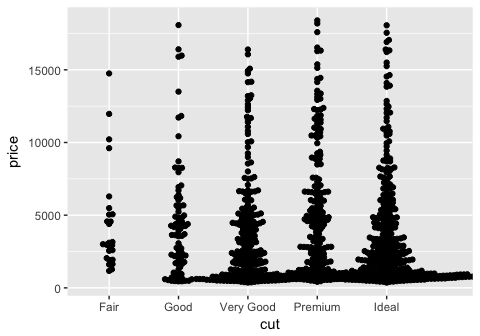
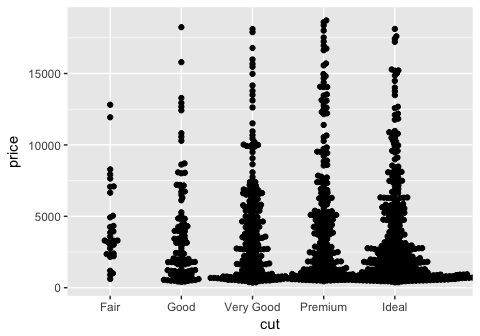
update formatting

diff --git a/r4ds_p4_chapters9-13_walkthrough.md b/r4ds_p4_chapters9-13_walkthrough.md
@@ -106,7 +106,7 @@ tb
 
     ## # A tibble: 1 x 3
     ##   `:)`  ` `   `2000`
-    ##   <chr> <chr> <chr> 
+    ##   <chr> <chr> <chr>
     ## 1 smile space number
 
 When compared to a data.frame in baseR, the tibble looks more user-friendly. Calling a tibble automatically provides only the beginning chunk of the data rather than filling up your entire console (think if it as default head(data.frame) display). Other nice features include not converting strings to factors or changing variable names.
@@ -243,16 +243,16 @@ diamonds[,var]
     ## # A tibble: 53,940 x 1
     ##    carat
     ##    <dbl>
-    ##  1 0.23 
-    ##  2 0.21 
-    ##  3 0.23 
+    ##  1 0.23
+    ##  2 0.21
+    ##  3 0.23
     ##  4 0.290
-    ##  5 0.31 
-    ##  6 0.24 
-    ##  7 0.24 
-    ##  8 0.26 
-    ##  9 0.22 
-    ## 10 0.23 
+    ##  5 0.31
+    ##  6 0.24
+    ##  7 0.24
+    ##  8 0.26
+    ##  9 0.22
+    ## 10 0.23
     ## # ... with 53,930 more rows
 
 ``` r
@@ -388,13 +388,13 @@ enframe(x)
     ## # A tibble: 100 x 2
     ##    name   value
     ##    <chr>  <dbl>
-    ##  1 5      1.64 
+    ##  1 5      1.64
     ##  2 6      0.424
-    ##  3 7     -1.06 
+    ##  3 7     -1.06
     ##  4 8      0.210
     ##  5 9     -0.888
-    ##  6 10    -1.43 
-    ##  7 11    -1.90 
+    ##  6 10    -1.43
+    ##  7 11    -1.90
     ##  8 12     0.747
     ##  9 13     0.604
     ## 10 14    -0.469
@@ -775,7 +775,7 @@ x
     ## attr(,"problems")
     ## # A tibble: 2 x 4
     ##     row   col expected               actual
-    ##   <int> <int> <chr>                  <chr> 
+    ##   <int> <int> <chr>                  <chr>
     ## 1     3    NA an integer             abc   
     ## 2     4    NA no trailing characters .45
 
@@ -785,7 +785,7 @@ problems(x)
 
     ## # A tibble: 2 x 4
     ##     row   col expected               actual
-    ##   <int> <int> <chr>                  <chr> 
+    ##   <int> <int> <chr>                  <chr>
     ## 1     3    NA an integer             abc   
     ## 2     4    NA no trailing characters .45
 
@@ -1284,16 +1284,16 @@ challenge2
     ## # A tibble: 2,000 x 2
     ##    x     y    
     ##    <chr> <chr>
-    ##  1 404   <NA> 
-    ##  2 4172  <NA> 
-    ##  3 3004  <NA> 
-    ##  4 787   <NA> 
-    ##  5 37    <NA> 
-    ##  6 2332  <NA> 
-    ##  7 2489  <NA> 
-    ##  8 1449  <NA> 
-    ##  9 3665  <NA> 
-    ## 10 3863  <NA> 
+    ##  1 404   <NA>
+    ##  2 4172  <NA>
+    ##  3 3004  <NA>
+    ##  4 787   <NA>
+    ##  5 37    <NA>
+    ##  6 2332  <NA>
+    ##  7 2489  <NA>
+    ##  8 1449  <NA>
+    ##  9 3665  <NA>
+    ## 10 3863  <NA>
     ## # ... with 1,990 more rows
 
 ``` r
@@ -1495,10 +1495,10 @@ table2 %>%
     ##   country      year  cases population  rate
     ##   <chr>       <int>  <int>      <int> <dbl>
     ## 1 Afghanistan  1999    745   19987071 0.373
-    ## 2 Afghanistan  2000   2666   20595360 1.29 
-    ## 3 Brazil       1999  37737  172006362 2.19 
-    ## 4 Brazil       2000  80488  174504898 4.61 
-    ## 5 China        1999 212258 1272915272 1.67 
+    ## 2 Afghanistan  2000   2666   20595360 1.29
+    ## 3 Brazil       1999  37737  172006362 2.19
+    ## 4 Brazil       2000  80488  174504898 4.61
+    ## 5 China        1999 212258 1272915272 1.67
     ## 6 China        2000 213766 1280428583 1.67
 
 ``` r
@@ -1780,8 +1780,8 @@ table3 %>%
     ## * <chr>       <int> <chr>  <chr>     
     ## 1 Afghanistan  1999 745    19987071  
     ## 2 Afghanistan  2000 2666   20595360  
-    ## 3 Brazil       1999 37737  172006362 
-    ## 4 Brazil       2000 80488  174504898 
+    ## 3 Brazil       1999 37737  172006362
+    ## 4 Brazil       2000 80488  174504898
     ## 5 China        1999 212258 1272915272
     ## 6 China        2000 213766 1280428583
 
@@ -1881,7 +1881,7 @@ tibble(x = c("a,b,c", "d,e", "f,g,i")) %>%
     ##   one   two   three
     ##   <chr> <chr> <chr>
     ## 1 a     b     c    
-    ## 2 d     e     <NA> 
+    ## 2 d     e     <NA>
     ## 3 f     g     i
 
 In the examples above, the tibbles created are 1 column, 3 rows, with strings as observations. Within each string, commas separate the letters. The separate(x, c("one", "two", "three")) will try to split each string using the comma into three columns. However, in the first tibble, there is a row with four values separated by commas (an extra value). This is where the `extra` argument comes into play.
@@ -1933,7 +1933,7 @@ tibble(x = c("a,b,c", "d,e", "f,g,i")) %>%
     ##   one   two   three
     ##   <chr> <chr> <chr>
     ## 1 a     b     c    
-    ## 2 d     e     <NA> 
+    ## 2 d     e     <NA>
     ## 3 f     g     i
 
 ``` r
@@ -1983,12 +1983,12 @@ table3 %>%
     ## 4, 5, 6].
 
     ## # A tibble: 6 x 3
-    ##   country      year cases 
-    ## * <chr>       <int> <chr> 
+    ##   country      year cases
+    ## * <chr>       <int> <chr>
     ## 1 Afghanistan  1999 745   
     ## 2 Afghanistan  2000 2666  
-    ## 3 Brazil       1999 37737 
-    ## 4 Brazil       2000 80488 
+    ## 3 Brazil       1999 37737
+    ## 4 Brazil       2000 80488
     ## 5 China        1999 212258
     ## 6 China        2000 213766
 
@@ -1999,12 +1999,12 @@ table3 %>%
 ```
 
     ## # A tibble: 6 x 3
-    ##   country      year cases 
-    ## * <chr>       <int> <chr> 
+    ##   country      year cases
+    ## * <chr>       <int> <chr>
     ## 1 Afghanistan  1999 745   
     ## 2 Afghanistan  2000 2666  
-    ## 3 Brazil       1999 37737 
-    ## 4 Brazil       2000 80488 
+    ## 3 Brazil       1999 37737
+    ## 4 Brazil       2000 80488
     ## 5 China        1999 212258
     ## 6 China        2000 213766
 
@@ -2154,7 +2154,7 @@ stocks %>%
 ```
 
     ## # A tibble: 4 x 3
-    ##     qtr `2015`  `2016` 
+    ##     qtr `2015`  `2016`
     ##   <dbl> <chr>   <chr>  
     ## 1     1 1.88    MISSING
     ## 2     2 0.59    0.92   
@@ -2171,7 +2171,7 @@ stocks %>%
     ## first element will be used
 
     ## # A tibble: 4 x 3
-    ##     qtr `2015`  `2016` 
+    ##     qtr `2015`  `2016`
     ##   <dbl> <chr>   <chr>  
     ## 1     1 1.88    NO_2016
     ## 2     2 0.59    0.92   
@@ -2633,7 +2633,7 @@ planes
 
     ## # A tibble: 3,322 x 9
     ##    tailnum  year type      manufacturer  model  engines seats speed engine
-    ##    <chr>   <int> <chr>     <chr>         <chr>    <int> <int> <int> <chr> 
+    ##    <chr>   <int> <chr>     <chr>         <chr>    <int> <int> <int> <chr>
     ##  1 N10156   2004 Fixed wi… EMBRAER       EMB-1…       2    55    NA Turbo…
     ##  2 N102UW   1998 Fixed wi… AIRBUS INDUS… A320-…       2   182    NA Turbo…
     ##  3 N103US   1999 Fixed wi… AIRBUS INDUS… A320-…       2   182    NA Turbo…
@@ -2654,16 +2654,16 @@ weather
     ## # A tibble: 26,130 x 15
     ##    origin  year month   day  hour  temp  dewp humid wind_dir wind_speed
     ##    <chr>  <dbl> <dbl> <int> <int> <dbl> <dbl> <dbl>    <dbl>      <dbl>
-    ##  1 EWR     2013     1     1     0  37.0  21.9  54.0      230      10.4 
-    ##  2 EWR     2013     1     1     1  37.0  21.9  54.0      230      13.8 
-    ##  3 EWR     2013     1     1     2  37.9  21.9  52.1      230      12.7 
-    ##  4 EWR     2013     1     1     3  37.9  23    54.5      230      13.8 
-    ##  5 EWR     2013     1     1     4  37.9  24.1  57.0      240      15.0 
-    ##  6 EWR     2013     1     1     6  39.0  26.1  59.4      270      10.4 
+    ##  1 EWR     2013     1     1     0  37.0  21.9  54.0      230      10.4
+    ##  2 EWR     2013     1     1     1  37.0  21.9  54.0      230      13.8
+    ##  3 EWR     2013     1     1     2  37.9  21.9  52.1      230      12.7
+    ##  4 EWR     2013     1     1     3  37.9  23    54.5      230      13.8
+    ##  5 EWR     2013     1     1     4  37.9  24.1  57.0      240      15.0
+    ##  6 EWR     2013     1     1     6  39.0  26.1  59.4      270      10.4
     ##  7 EWR     2013     1     1     7  39.0  27.0  61.6      250       8.06
-    ##  8 EWR     2013     1     1     8  39.0  28.0  64.4      240      11.5 
-    ##  9 EWR     2013     1     1     9  39.9  28.0  62.2      250      12.7 
-    ## 10 EWR     2013     1     1    10  39.0  28.0  64.4      260      12.7 
+    ##  8 EWR     2013     1     1     8  39.0  28.0  64.4      240      11.5
+    ##  9 EWR     2013     1     1     9  39.9  28.0  62.2      250      12.7
+    ## 10 EWR     2013     1     1    10  39.0  28.0  64.4      260      12.7
     ## # ... with 26,120 more rows, and 5 more variables: wind_gust <dbl>,
     ## #   precip <dbl>, pressure <dbl>, visib <dbl>, time_hour <dttm>
 
@@ -2718,16 +2718,16 @@ weather_airports
     ## # A tibble: 26,130 x 22
     ##    origin  year month   day  hour  temp  dewp humid wind_dir wind_speed
     ##    <chr>  <dbl> <dbl> <int> <int> <dbl> <dbl> <dbl>    <dbl>      <dbl>
-    ##  1 EWR     2013     1     1     0  37.0  21.9  54.0      230      10.4 
-    ##  2 EWR     2013     1     1     1  37.0  21.9  54.0      230      13.8 
-    ##  3 EWR     2013     1     1     2  37.9  21.9  52.1      230      12.7 
-    ##  4 EWR     2013     1     1     3  37.9  23    54.5      230      13.8 
-    ##  5 EWR     2013     1     1     4  37.9  24.1  57.0      240      15.0 
-    ##  6 EWR     2013     1     1     6  39.0  26.1  59.4      270      10.4 
+    ##  1 EWR     2013     1     1     0  37.0  21.9  54.0      230      10.4
+    ##  2 EWR     2013     1     1     1  37.0  21.9  54.0      230      13.8
+    ##  3 EWR     2013     1     1     2  37.9  21.9  52.1      230      12.7
+    ##  4 EWR     2013     1     1     3  37.9  23    54.5      230      13.8
+    ##  5 EWR     2013     1     1     4  37.9  24.1  57.0      240      15.0
+    ##  6 EWR     2013     1     1     6  39.0  26.1  59.4      270      10.4
     ##  7 EWR     2013     1     1     7  39.0  27.0  61.6      250       8.06
-    ##  8 EWR     2013     1     1     8  39.0  28.0  64.4      240      11.5 
-    ##  9 EWR     2013     1     1     9  39.9  28.0  62.2      250      12.7 
-    ## 10 EWR     2013     1     1    10  39.0  28.0  64.4      260      12.7 
+    ##  8 EWR     2013     1     1     8  39.0  28.0  64.4      240      11.5
+    ##  9 EWR     2013     1     1     9  39.9  28.0  62.2      250      12.7
+    ## 10 EWR     2013     1     1    10  39.0  28.0  64.4      260      12.7
     ## # ... with 26,120 more rows, and 12 more variables: wind_gust <dbl>,
     ## #   precip <dbl>, pressure <dbl>, visib <dbl>, time_hour <dttm>,
     ## #   name <chr>, lat <dbl>, lon <dbl>, alt <int>, tz <dbl>, dst <chr>,
@@ -2757,16 +2757,16 @@ left_join(flights, special) %>%
     ## # A tibble: 336,776 x 5
     ##     year month   day flight event
     ##    <int> <dbl> <dbl>  <int> <lgl>
-    ##  1  2013     1     1   1545 TRUE 
-    ##  2  2013     1     1   1714 TRUE 
-    ##  3  2013     1     1   1141 TRUE 
-    ##  4  2013     1     1    725 TRUE 
-    ##  5  2013     1     1    461 TRUE 
-    ##  6  2013     1     1   1696 TRUE 
-    ##  7  2013     1     1    507 TRUE 
-    ##  8  2013     1     1   5708 TRUE 
-    ##  9  2013     1     1     79 TRUE 
-    ## 10  2013     1     1    301 TRUE 
+    ##  1  2013     1     1   1545 TRUE
+    ##  2  2013     1     1   1714 TRUE
+    ##  3  2013     1     1   1141 TRUE
+    ##  4  2013     1     1    725 TRUE
+    ##  5  2013     1     1    461 TRUE
+    ##  6  2013     1     1   1696 TRUE
+    ##  7  2013     1     1    507 TRUE
+    ##  8  2013     1     1   5708 TRUE
+    ##  9  2013     1     1     79 TRUE
+    ## 10  2013     1     1    301 TRUE
     ## # ... with 336,766 more rows
 
 13.3 Keys
@@ -3080,7 +3080,7 @@ as_tibble(Master)
     ##  3 aaronto01      1939          8        5 USA          AL        
     ##  4 aasedo01       1954          9        8 USA          CA        
     ##  5 abadan01       1972          8       25 USA          FL        
-    ##  6 abadfe01       1985         12       17 D.R.         La Romana 
+    ##  6 abadfe01       1985         12       17 D.R.         La Romana
     ##  7 abadijo01      1850         11        4 USA          PA        
     ##  8 abbated01      1877          4       15 USA          PA        
     ##  9 abbeybe01      1869         11       11 USA          VT        
@@ -3369,11 +3369,11 @@ airports %>%
     coord_quickmap()
 ```
 
-    ## 
+    ##
     ## Attaching package: 'maps'
 
     ## The following object is masked from 'package:purrr':
-    ## 
+    ##
     ##     map
 
 ![](r4ds_p4_chapters9-13_walkthrough_files/figure-markdown_github/map_of_US-1.png)
@@ -3491,8 +3491,8 @@ avg_delay_plane
     ## # A tibble: 4,044 x 11
     ##    tailnum avg_delay_dep avg_delay_arr  year type      manufacturer  model
     ##    <chr>           <dbl>         <dbl> <int> <chr>     <chr>         <chr>
-    ##  1 D942DN         31.5          31.5      NA <NA>      <NA>          <NA> 
-    ##  2 N0EGMQ          8.49          9.98     NA <NA>      <NA>          <NA> 
+    ##  1 D942DN         31.5          31.5      NA <NA>      <NA>          <NA>
+    ##  2 N0EGMQ          8.49          9.98     NA <NA>      <NA>          <NA>
     ##  3 N10156         17.8          12.7    2004 Fixed wi… EMBRAER       EMB-…
     ##  4 N102UW          8             2.94   1998 Fixed wi… AIRBUS INDUS… A320…
     ##  5 N103US         -3.20         -6.93   1999 Fixed wi… AIRBUS INDUS… A320…
@@ -4217,4 +4217,4 @@ setdiff(df2, df1)
 
 ------------------------------------------------------------------------
 
-Thanks for reading! I hope you found my solutions to the exercises informative. A walkthrough of chapters 14 - 16 can be found at [r4ds\_p5\_chapters14-16\_walkthrough.md](https://github.com/erilu/R-for-data-science-walkthrough/blob/master/r4ds_chapters14-16_walkthrough.md).
+Thanks for reading! I hope you found my solutions to the exercises informative. A walkthrough of chapters 14 - 16 can be found at [r4ds\_p5\_chapters14-16\_walkthrough.md](https://github.com/erilu/R-for-data-science-walkthrough/blob/master/r4ds_p5_chapters14-16_walkthrough.md).

diff --git a/r4ds_p3_chapters7-8_walkthrough.md b/r4ds_p3_chapters7-8_walkthrough.md
@@ -451,12 +451,12 @@ head(x)
 ```
 
     ##            x
-    ## 1  0.9324145
-    ## 2 10.3333901
-    ## 3  9.3036595
-    ## 4  3.7702227
-    ## 5  2.8741061
-    ## 6  1.8365465
+    ## 1  0.4766200
+    ## 2  0.5078467
+    ## 3 -0.6429373
+    ## 4  4.2001708
+    ## 5  3.7605600
+    ## 6  3.4246309
 
 ``` r
 ggplot(x, aes(x))+
@@ -474,12 +474,12 @@ head(add_na)
 ```
 
     ##            x
-    ## 1  0.9324145
-    ## 2 10.3333901
-    ## 3  9.3036595
-    ## 4  3.7702227
-    ## 5  2.8741061
-    ## 6  1.8365465
+    ## 1  0.4766200
+    ## 2  0.5078467
+    ## 3 -0.6429373
+    ## 4  4.2001708
+    ## 5  3.7605600
+    ## 6  3.4246309
 
 ``` r
 ggplot(add_na, aes(x))+
@@ -488,7 +488,7 @@ ggplot(add_na, aes(x))+
 
     ## `stat_bin()` using `bins = 30`. Pick better value with `binwidth`.
 
-    ## Warning: Removed 27 rows containing non-finite values (stat_bin).
+    ## Warning: Removed 32 rows containing non-finite values (stat_bin).
 
 ![](r4ds_p3_chapters7-8_walkthrough_files/figure-markdown_github/introduce_NA_hist_bin-2.png)
 
@@ -779,16 +779,16 @@ The plots generated by geom\_jitter() are very similar to the stripchart() from 
     ## # A tibble: 1,000 x 10
     ##    carat cut       color clarity depth table price     x     y     z
     ##    <dbl> <ord>     <ord> <ord>   <dbl> <dbl> <int> <dbl> <dbl> <dbl>
-    ##  1 0.4   Ideal     I     IF       62.4    56   982  4.7   4.73  2.94
-    ##  2 0.36  Ideal     G     VS1      60.6    57   761  4.58  4.62  2.79
-    ##  3 0.6   Premium   H     SI1      60.1    61  1219  5.43  5.39  3.25
-    ##  4 0.59  Ideal     D     VS1      60.9    56  2175  5.39  5.44  3.3 
-    ##  5 0.570 Ideal     E     VS2      61      54  2319  5.43  5.39  3.3 
-    ##  6 0.52  Very Good E     VS2      63.3    56  1670  5.12  5.08  3.23
-    ##  7 0.71  Premium   G     VS2      60.3    60  2694  5.81  5.76  3.49
-    ##  8 1.04  Very Good D     VVS2     58.3    61  9254  6.63  6.69  3.88
-    ##  9 1.02  Premium   D     SI2      59.5    62  4912  6.56  6.52  3.89
-    ## 10 0.3   Ideal     E     VS1      61.1    58   673  4.3   4.34  2.64
+    ##  1  0.3  Premium   G     VS2      61.6    60   526  4.28  4.33  2.65
+    ##  2  0.71 Good      G     SI2      58.2    64  1902  5.82  5.77  3.37
+    ##  3  0.24 Very Good F     IF       60.4    58   552  4.02  4.06  2.44
+    ##  4  0.7  Very Good F     I1       63.2    61  1736  5.57  5.48  3.49
+    ##  5  0.7  Good      F     SI2      63.6    56  1806  5.63  5.56  3.56
+    ##  6  1.51 Good      D     SI2      64.1    61  8706  7.18  7.14  4.59
+    ##  7  1.03 Premium   G     VS2      63      59  5826  6.45  6.4   4.05
+    ##  8  2.29 Fair      J     SI1      56.8    66 12811  8.79  8.69  4.96
+    ##  9  0.7  Very Good G     SI2      60.6    58  2057  5.72  5.77  3.48
+    ## 10  1.26 Ideal     G     VS2      61.5    57  5792  6.94  6.89  4.25
     ## # ... with 990 more rows
 
 ``` r
